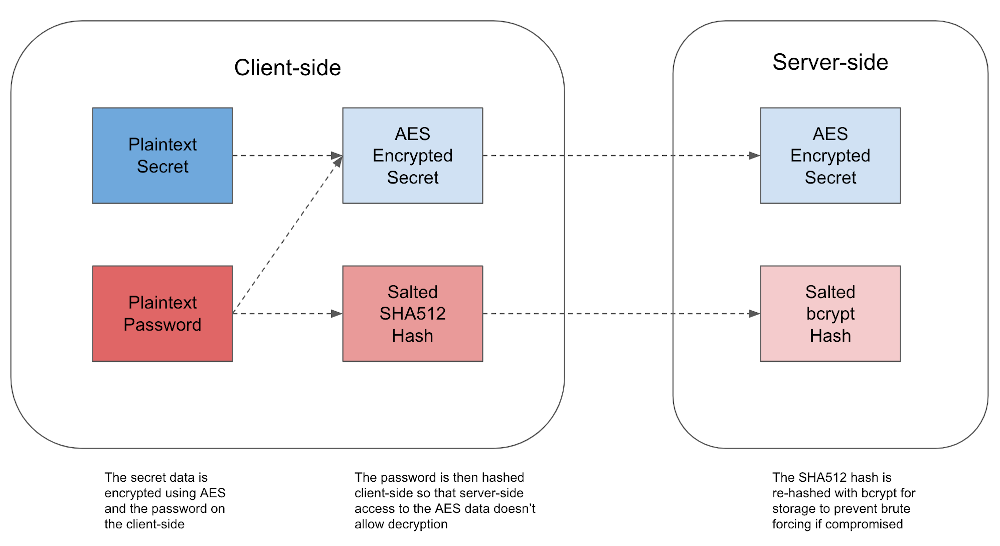
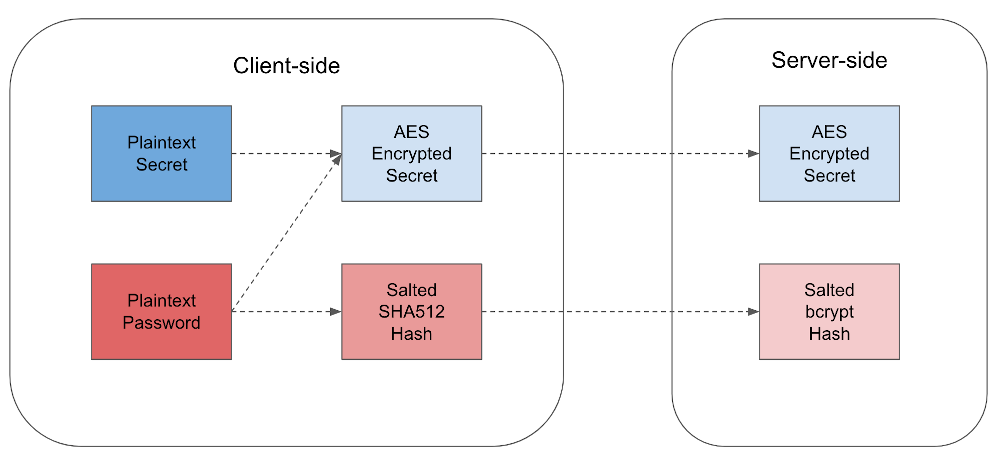
Fix image. Make final result visible

diff --git a/src/whisper/templates/show.html b/src/whisper/templates/show.html
@@ -24,8 +24,7 @@
                 <br />
                 <button class="btn btn-md btn-primary btn-block" type="submit">Get Secret</button>
                 <br />
-                <label for="decrypted_text" id="decrypted_text_label" class="control-label" style="visibility: hidden;">Decrypted Secret</label>
-                <textarea class="form-control" rows="5" id="decrypted_text" placeholder="" style="visibility: hidden;" readonly></textarea>
+                <textarea class="form-control" rows="5" id="decrypted_text" placeholder="" readonly></textarea>
             </form>
         </div>
         <div class="navbar-fixed-bottom row-fluid text-left">

diff --git a/src/whisper/assets/whisper.js b/src/whisper/assets/whisper.js
@@ -99,10 +99,7 @@ function download_secret_file(decrypted, file_name, file_mime) {
 
 // Display decrypted secret text
 function display_secret_text(decrypted) {
-    let label = document.getElementById('decrypted_text_label')
     let text = document.getElementById('decrypted_text')
-    label.style.visibility = "visible";
-    text.style.visibility = "visible";
     text.value = decrypted;
 }
 

diff --git a/src/whisper/__init__.py b/src/whisper/__init__.py
@@ -81,7 +81,7 @@ class secret:
             return False
         return bcrypt.checkpw(key_pass, self.hash.encode("utf-8"))
 
-    def set_password(self, key_pass, salt_rounds=14):
+    def set_password(self, key_pass, salt_rounds=12):
         """Generate salted hash and store it"""
         salt = bcrypt.gensalt(rounds=salt_rounds)
         self.hash = bcrypt.hashpw(key_pass, salt).decode("utf-8")
